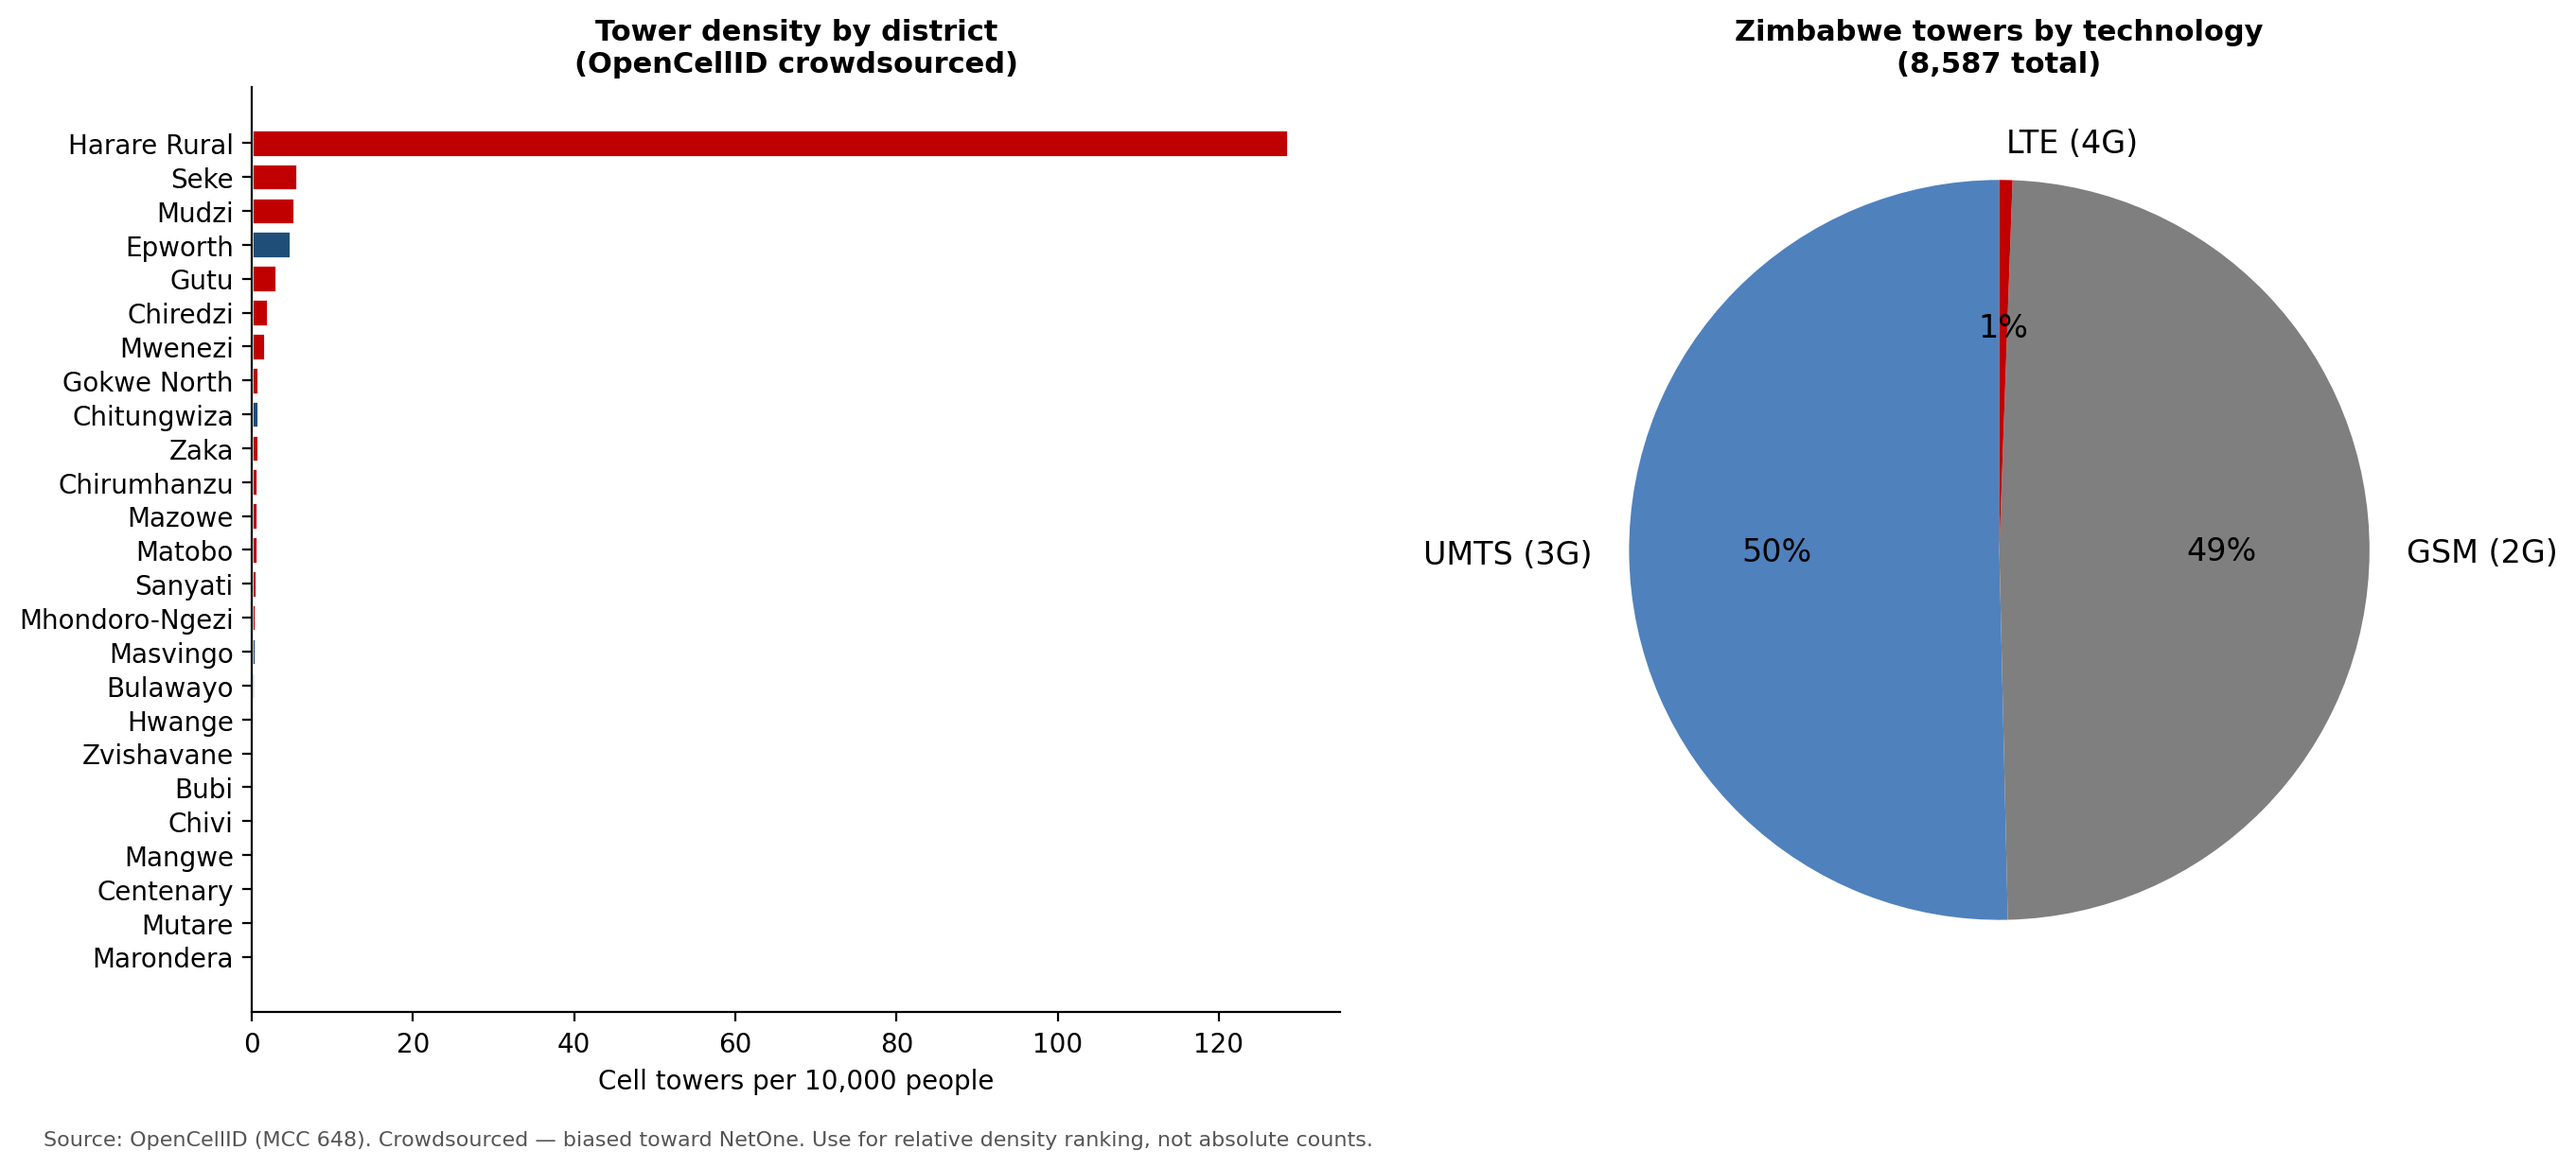
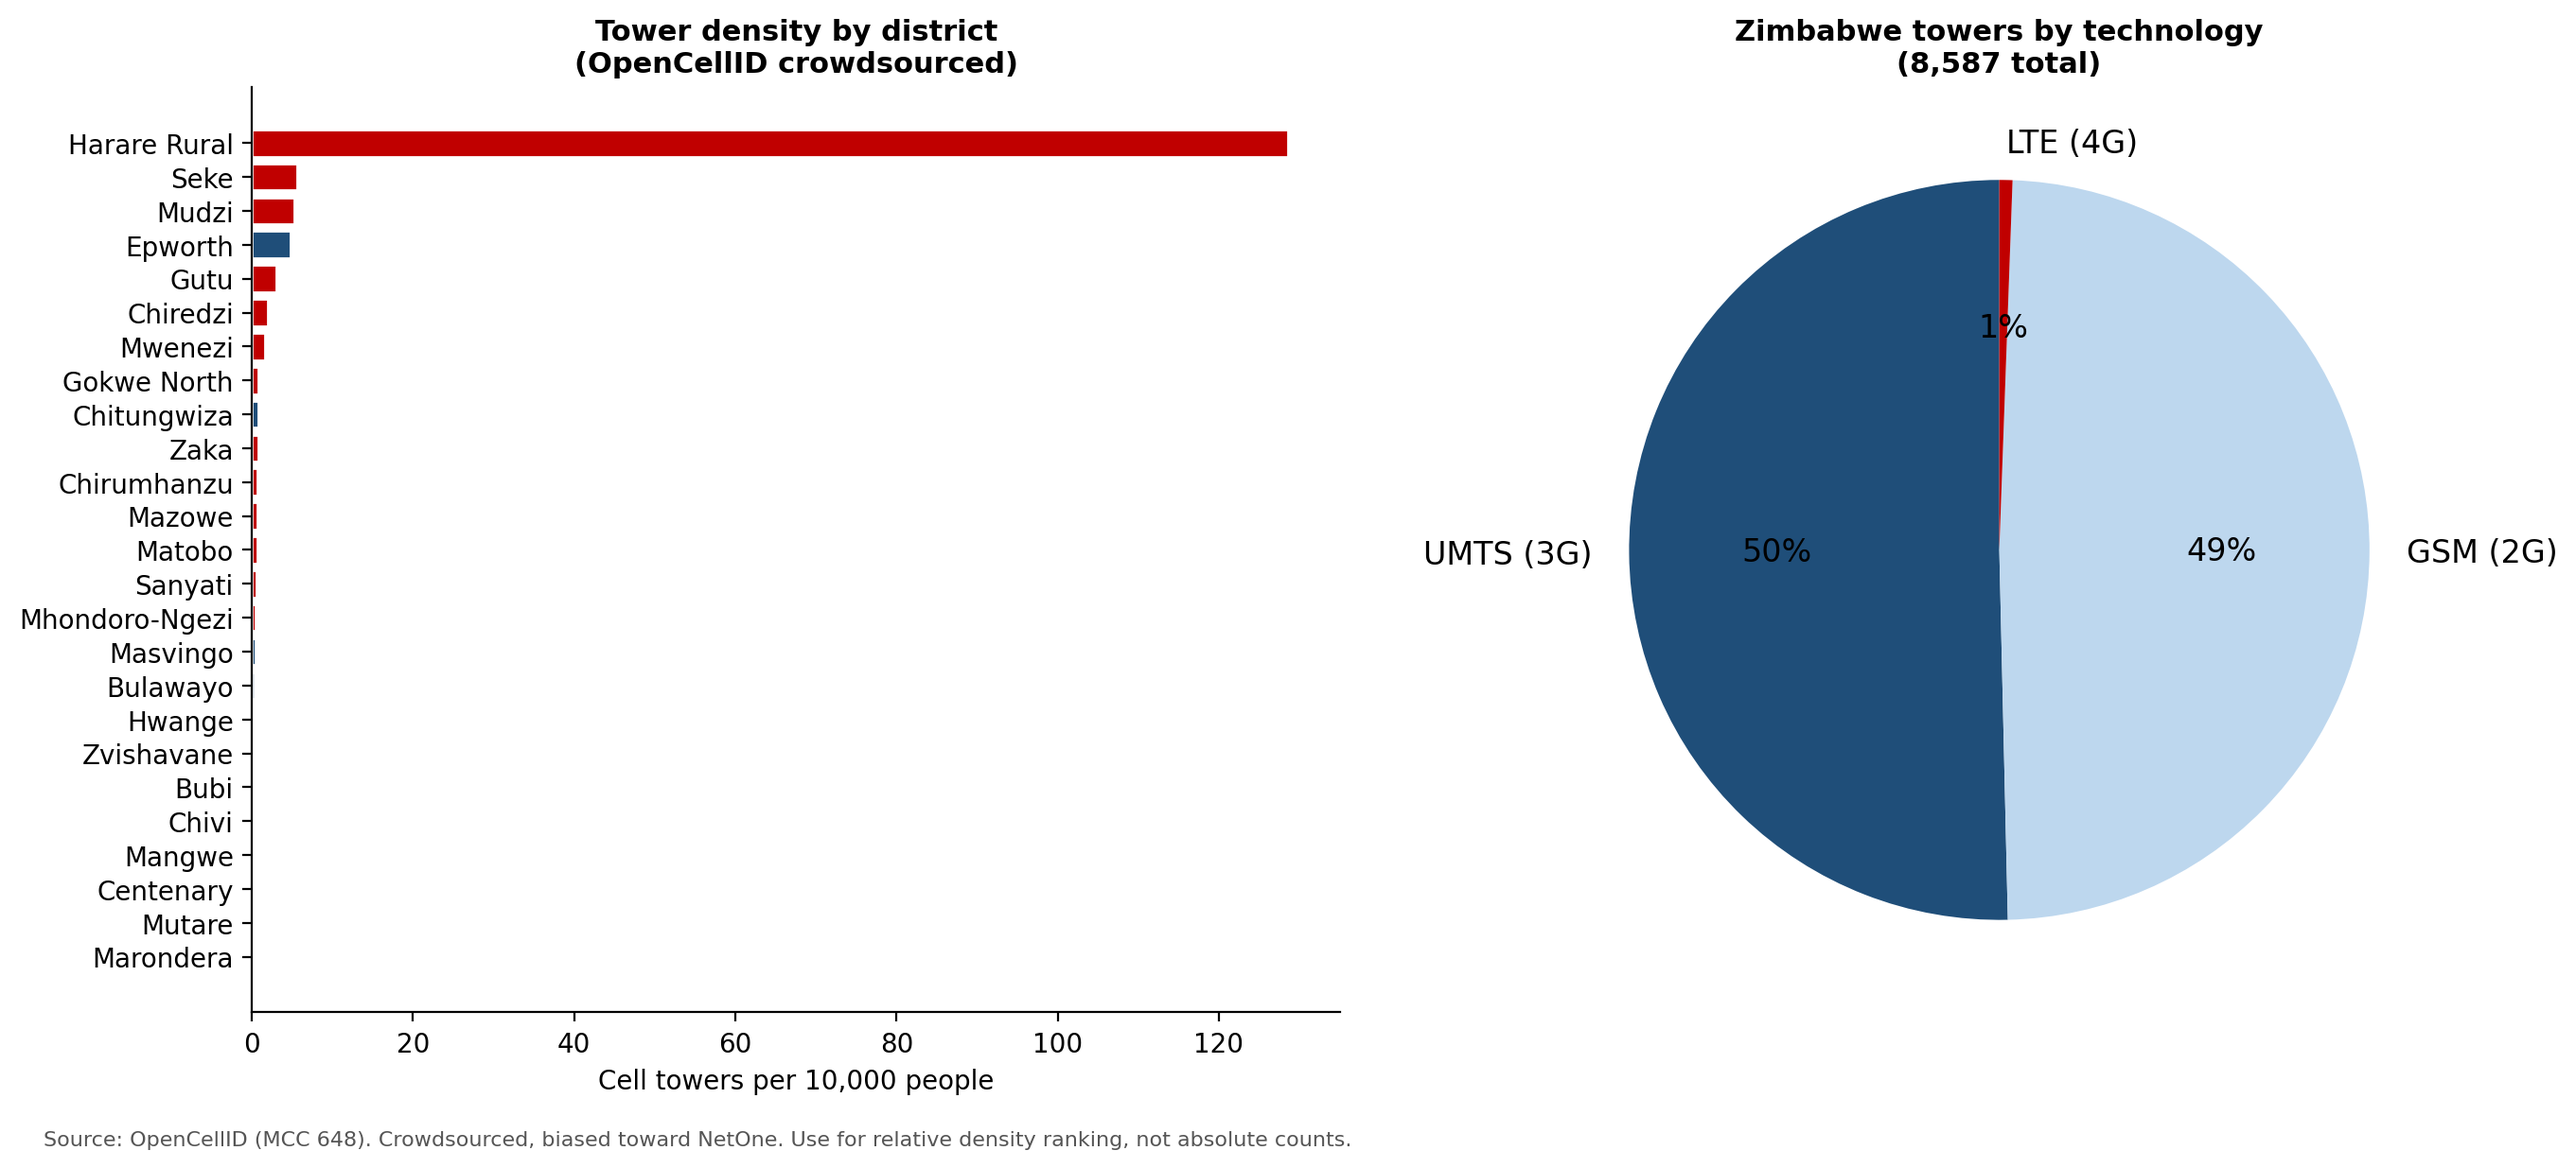
Recolour the OpenCellID pie to match the deck
The technology pie still had a grey 2G slice, the last bit of the old print
palette hanging around. Swapped it for the deck colours (ice-blue 2G, navy
3G, red 4G) so the figure sits with the rest of the presentation.

Changed region(s): [[0.6245, 0.1538, 0.9368, 0.8], [0.2186, 0.9538, 0.5309, 0.9846]]

diff --git a/src/extract_opencellid.py b/src/extract_opencellid.py
@@ -141,15 +141,15 @@ if 'towers_per_10k' in agg.columns and len(agg) > 0:
     axes[0].spines[['top', 'right']].set_visible(False)
 
 tech_counts = towers['radio'].value_counts()
-colors_pie = {'GSM': '#7F7F7F', 'UMTS': '#4F81BD', 'LTE': '#C00000'}
+colors_pie = {'GSM': '#BDD7EE', 'UMTS': '#1F4E79', 'LTE': '#C00000'}
 axes[1].pie(tech_counts.values, labels=[f"{t} ({TECH_MAP.get(t,t)})" for t in tech_counts.index],
-            colors=[colors_pie.get(t, '#999') for t in tech_counts.index],
+            colors=[colors_pie.get(t, '#8FAADC') for t in tech_counts.index],
             autopct='%1.0f%%', startangle=90, textprops={'fontsize': 12})
 axes[1].set_title(f'Zimbabwe towers by technology\n({len(towers):,} total)',
                   fontsize=11, fontweight='bold')
 
 fig.text(0.02, -0.02,
-         'Source: OpenCellID (MCC 648). Crowdsourced — biased toward NetOne. '
+         'Source: OpenCellID (MCC 648). Crowdsourced, biased toward NetOne. '
          'Use for relative density ranking, not absolute counts.',
          fontsize=8, color='#555555')
 fig.tight_layout()
